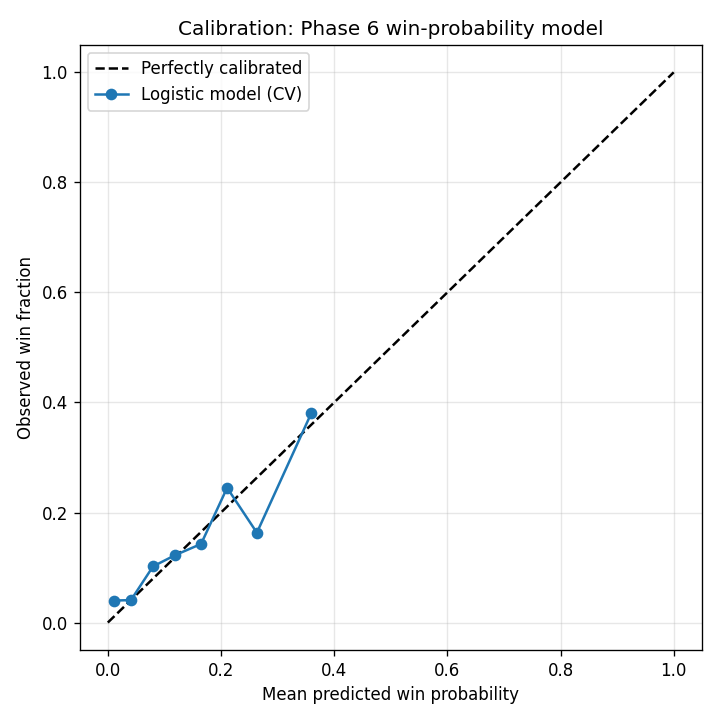
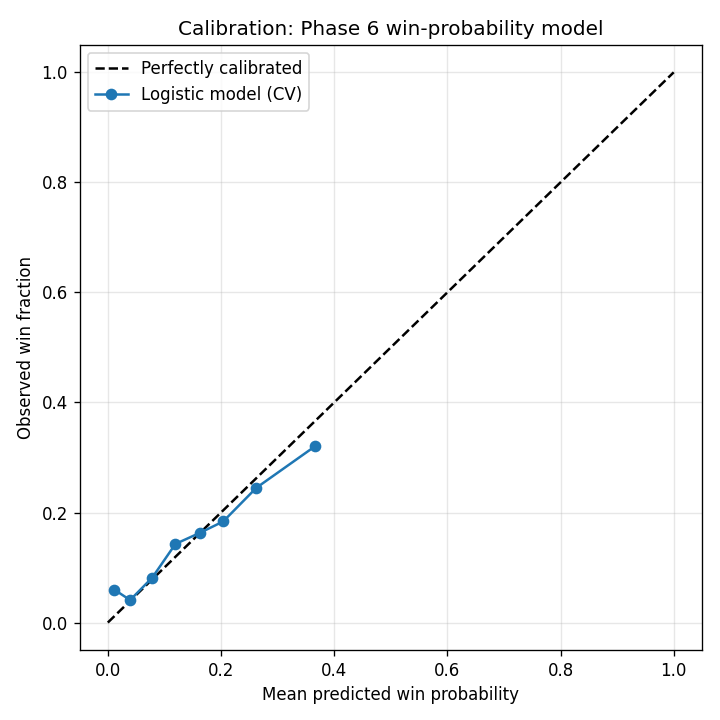
Add beaten lengths as picks column 17 and beaten_c CL feature
Decode the Brisnet superscript font (digits + margin fractions) to parse
beaten lengths from the FIN call of the most recent PP race line. Stored
raw in entries/picks; the conditional logit caps at 5 lengths since CV
ablation showed the close-loss signal lives under ~5 lengths.

Changed region(s): [[0.1528, 0.6417, 0.3972, 0.8556], [0.3972, 0.5806, 0.4583, 0.6417], [0.4278, 0.55, 0.4583, 0.5806]]

diff --git a/scripts/db_migrate.py b/scripts/db_migrate.py
@@ -68,6 +68,7 @@ CREATE TABLE IF NOT EXISTS picks (
     recent_spd_2    INTEGER,
     recent_spd_3    INTEGER,
     jt_winpct       REAL,
+    beaten_lengths  REAL,
     trainer_name    TEXT,
     trainer_exempt  INTEGER DEFAULT 0,
     filtered_reason TEXT,
@@ -110,6 +111,7 @@ CREATE TABLE IF NOT EXISTS entries (
     improving     INTEGER,
     jt_zero       INTEGER,
     jt_winpct     REAL,
+    beaten_lengths REAL,
     signal_types  TEXT,
     is_pick       INTEGER DEFAULT 0,
     UNIQUE(track, race_date, race_num, horse_name)
@@ -141,14 +143,16 @@ def ensure_prob_columns(conn):
                           ('kelly_bet', 'REAL'), ('days_off', 'INTEGER'),
                           ('last_race_date', 'TEXT'), ('best_speed', 'INTEGER'),
                           ('recent_spd_1', 'INTEGER'), ('recent_spd_2', 'INTEGER'),
-                          ('recent_spd_3', 'INTEGER'), ('jt_winpct', 'REAL')):
+                          ('recent_spd_3', 'INTEGER'), ('jt_winpct', 'REAL'),
+                          ('beaten_lengths', 'REAL')):
         if col not in existing:
             conn.execute(f"ALTER TABLE picks ADD COLUMN {col} {col_type}")
             print(f"  schema: added picks.{col}")
     existing_e = {row[1] for row in conn.execute("PRAGMA table_info(entries)")}
-    if 'jt_winpct' not in existing_e:
-        conn.execute("ALTER TABLE entries ADD COLUMN jt_winpct REAL")
-        print("  schema: added entries.jt_winpct")
+    for col in ('jt_winpct', 'beaten_lengths'):
+        if col not in existing_e:
+            conn.execute(f"ALTER TABLE entries ADD COLUMN {col} REAL")
+            print(f"  schema: added entries.{col}")
     conn.commit()
 
 
@@ -209,21 +213,24 @@ def backfill_speed(conn):
     conn.commit()
 
 
-def backfill_jt_winpct(conn):
-    """Fill picks.jt_winpct from entries for the same horse on the same card."""
-    cur = conn.execute(
-        "UPDATE picks SET jt_winpct = ("
-        " SELECT e.jt_winpct FROM entries e"
-        " WHERE e.track=picks.track AND e.race_date=picks.race_date"
-        "   AND e.race_num=picks.race_num AND e.horse_name=picks.horse_name)"
-        " WHERE jt_winpct IS NULL AND EXISTS ("
-        " SELECT 1 FROM entries e"
-        " WHERE e.track=picks.track AND e.race_date=picks.race_date"
-        "   AND e.race_num=picks.race_num AND e.horse_name=picks.horse_name"
-        "   AND e.jt_winpct IS NOT NULL)"
-    )
-    if cur.rowcount:
-        print(f"  backfill: jt_winpct from entries for {cur.rowcount} picks")
+def backfill_entry_columns(conn):
+    """Fill simple picks columns from the matching entries row (same horse,
+    same card). Add (picks_col, entries_col) pairs here as features grow."""
+    for picks_col, entries_col in (('jt_winpct', 'jt_winpct'),
+                                   ('beaten_lengths', 'beaten_lengths')):
+        cur = conn.execute(
+            f"UPDATE picks SET {picks_col} = ("
+            f" SELECT e.{entries_col} FROM entries e"
+            " WHERE e.track=picks.track AND e.race_date=picks.race_date"
+            "   AND e.race_num=picks.race_num AND e.horse_name=picks.horse_name)"
+            f" WHERE {picks_col} IS NULL AND EXISTS ("
+            " SELECT 1 FROM entries e"
+            " WHERE e.track=picks.track AND e.race_date=picks.race_date"
+            "   AND e.race_num=picks.race_num AND e.horse_name=picks.horse_name"
+            f"   AND e.{entries_col} IS NOT NULL)"
+        )
+        if cur.rowcount:
+            print(f"  backfill: {picks_col} from entries for {cur.rowcount} picks")
     conn.commit()
 
 
@@ -452,6 +459,9 @@ def import_picks(conn):
             # Column 16: J/T combo win%
             try:    jt_winpct = float(parts[15]) if len(parts) >= 16 else None
             except: jt_winpct = None
+            # Column 17: beaten lengths in most recent race
+            try:    beaten_len = float(parts[16]) if len(parts) >= 17 else None
+            except: beaten_len = None
 
             cur.execute(
                 "SELECT race_id FROM races WHERE track=? AND race_date=? AND race_num=?",
@@ -464,15 +474,17 @@ def import_picks(conn):
                 "INSERT OR IGNORE INTO picks"
                 "(track,race_date,race_num,race_id,horse_name,signal_type,bets,"
                 "ml_odds,pp_power,win_prob,ev_ratio,days_off,"
-                "best_speed,recent_spd_1,recent_spd_2,recent_spd_3,jt_winpct,trainer_name)"
-                " VALUES(?,?,?,?,?,?,?,?,?,?,?,?,?,?,?,?,?,?)",
+                "best_speed,recent_spd_1,recent_spd_2,recent_spd_3,jt_winpct,"
+                "beaten_lengths,trainer_name)"
+                " VALUES(?,?,?,?,?,?,?,?,?,?,?,?,?,?,?,?,?,?,?)",
                 (p_track, date_str, p_race, race_id, p_horse, p_signal, bets,
                  ml_odds, pp_power, win_prob, ev_ratio, days_off,
-                 best_speed, rs1, rs2, rs3, jt_winpct, trainer_name)
+                 best_speed, rs1, rs2, rs3, jt_winpct, beaten_len, trainer_name)
             )
             if cur.rowcount:
                 n_picks += 1
-            elif any(v is not None for v in (win_prob, days_off, best_speed, jt_winpct)):
+            elif any(v is not None for v in (win_prob, days_off, best_speed, jt_winpct,
+                                             beaten_len)):
                 # Pick imported before its file was annotated (or re-annotated
                 # after a model fix) — sync optional columns from the file
                 cur.execute(
@@ -482,10 +494,11 @@ def import_picks(conn):
                     " recent_spd_1=COALESCE(?,recent_spd_1),"
                     " recent_spd_2=COALESCE(?,recent_spd_2),"
                     " recent_spd_3=COALESCE(?,recent_spd_3),"
-                    " jt_winpct=COALESCE(?,jt_winpct)"
+                    " jt_winpct=COALESCE(?,jt_winpct),"
+                    " beaten_lengths=COALESCE(?,beaten_lengths)"
                     " WHERE track=? AND race_date=? AND race_num=? AND horse_name=?",
                     (win_prob, ev_ratio, days_off, best_speed, rs1, rs2, rs3, jt_winpct,
-                     p_track, date_str, p_race, p_horse)
+                     beaten_len, p_track, date_str, p_race, p_horse)
                 )
 
     conn.commit()
@@ -655,8 +668,8 @@ def main():
     print("Backfilling speed figures...")
     backfill_speed(conn)
 
-    print("Backfilling jt_winpct...")
-    backfill_jt_winpct(conn)
+    print("Backfilling columns from entries...")
+    backfill_entry_columns(conn)
 
     # Summary
     cur = conn.cursor()

diff --git a/scripts/brisnet_parser_v2.py b/scripts/brisnet_parser_v2.py
@@ -336,6 +336,57 @@ def extract_speed_figures(block_lines):
     return [races[d] for d in sorted(races, reverse=True)]
 
 
+# Brisnet PP font: superscript digits map to §¨©ª«¬\xad®¯° (verified against
+# jockey weights, e.g. OcasioJ¨©§ = 120) and margin fractions to
+# \x81=½ ‚=¼ ƒ=¾ (verified: winner-margin chain sums match the FIN call).
+_SUP_DIGITS = {'§': 0, '¨': 1, '©': 2, 'ª': 3, '«': 4,
+               '¬': 5, '\xad': 6, '®': 7, '¯': 8, '°': 9}
+_SUP_FRACTIONS = {'\x81': 0.5, '‚': 0.25, 'ƒ': 0.75,   # ½ ¼ ¾
+                  '\xb2': 0.05, '„': 0.1, '\xb3': 0.3}      # nose head neck
+_SUP_CHARS = re.escape(''.join(list(_SUP_DIGITS) + list(_SUP_FRACTIONS)))
+# The FIN call (position + superscript beaten lengths) is the token right
+# before the jockey, who renders as Name + 3 superscript weight digits
+_PP_FIN_RE = re.compile(
+    r'(\d{1,2})([' + _SUP_CHARS + r']*)\s*'
+    r"(?=[A-Z][A-Za-z'.]{2,}[" + re.escape(''.join(_SUP_DIGITS)) + r']{3})'
+)
+
+
+def _sup_to_lengths(sup):
+    digits = ''.join(str(_SUP_DIGITS[c]) for c in sup if c in _SUP_DIGITS)
+    frac = sum(_SUP_FRACTIONS[c] for c in sup if c in _SUP_FRACTIONS)
+    return (int(digits) if digits else 0) + frac
+
+
+def extract_beaten_lengths(block_lines, page_lines=None):
+    """Beaten lengths in the horse's most recent race (0.0 = won, positive
+    = lengths behind the winner), or None when unparseable / first-time
+    starter. Horse blocks come from the page's left-crop text, where PP
+    lines are truncated before the FIN call; pass page_lines so the
+    full-layout copy (same line, longer) can be located by prefix."""
+    races = {}
+    for line in block_lines:
+        d = _pp_line_date(line)
+        if d is None or races.get(d) is not None:
+            continue
+        m = _PP_FIN_RE.search(line)
+        if m is None and page_lines:
+            key = line.strip()
+            if len(key) >= 40:
+                for fl in page_lines:
+                    fls = fl.strip()
+                    if len(fls) > len(key) and fls.startswith(key):
+                        m = _PP_FIN_RE.search(fls)
+                        if m:
+                            break
+        if m is None:
+            races.setdefault(d, None)
+            continue
+        pos = int(m.group(1))
+        races[d] = 0.0 if pos == 1 else _sup_to_lengths(m.group(2))
+    return races[max(races)] if races else None
+
+
 def last_race_date_from_block(block):
     """Most recent past-race date in a horse's PP block, or None
     (first-time starters have no PP lines)."""
@@ -546,6 +597,8 @@ def parse_brisnet(text, track_code='GP', race_date=None):
             if race_date and last_race and last_race < race_date:
                 days_off = (race_date - last_race).days
 
+            beaten_len = extract_beaten_lengths(block, lines)
+
             # ── Speed figures from PP lines in block ──────────────────────────
             spd_figs   = extract_speed_figures(block)  # [(figure, surface), ...]
             recent_spd = [f for f, _ in spd_figs[:5]]
@@ -616,7 +669,7 @@ def parse_brisnet(text, track_code='GP', race_date=None):
                 'recent_spd': recent_spd, 'best_spd': best_spd,
                 'best_spd_turf': best_spd_turf, 'best_spd_aw': best_spd_aw,
                 'improving': improving, 'jt_zero': jt_zero,
-                'jt_winpct': jt_winpct,
+                'jt_winpct': jt_winpct, 'beaten_len': beaten_len,
             }
 
             if not any(h['name'] == horse for h in races[current_race]['horses']):
@@ -871,8 +924,9 @@ def write_entries_db(races, track_code, race_date):
                     "(race_id,track,race_date,race_num,post_pos,horse_name,"
                     "ml_odds,prime_power,pp_rank,trainer,jockey,sire,"
                     "days_off,claim_price,best_spd,best_spd_turf,best_spd_aw,"
-                    "recent_spd,improving,jt_zero,jt_winpct,signal_types,is_pick)"
-                    " VALUES(?,?,?,?,?,?,?,?,?,?,?,?,?,?,?,?,?,?,?,?,?,?,?)",
+                    "recent_spd,improving,jt_zero,jt_winpct,beaten_lengths,"
+                    "signal_types,is_pick)"
+                    " VALUES(?,?,?,?,?,?,?,?,?,?,?,?,?,?,?,?,?,?,?,?,?,?,?,?)",
                     (race_id, tc, date_str, rn, h['pp'],
                      h['name'].replace(' ', ''),
                      ml_to_float(h['ml']),
@@ -890,6 +944,7 @@ def write_entries_db(races, track_code, race_date):
                      int(bool(h.get('improving'))),
                      int(bool(h.get('jt_zero'))),
                      h.get('jt_winpct'),
+                     h.get('beaten_len'),
                      ','.join(s[0] for s in h['signals']) or None,
                      int(is_strong_pick(h)))
                 )
@@ -909,7 +964,7 @@ def write_picks_file(all_picks, track_code, filepath):
     out_path = Path(__file__).parent / f"picks_{tc}_{date_str}.txt"
     lines = [
         f"# Benter Model Picks - {tc} {date_str}",
-        "# Format: TRACK RACE HORSE SIGNAL BETS ML_ODDS PP_POWER TRAINER WIN_PROB EV_RATIO DAYS_OFF BEST_SPD SPD1 SPD2 SPD3 JT_WINPCT",
+        "# Format: TRACK RACE HORSE SIGNAL BETS ML_ODDS PP_POWER TRAINER WIN_PROB EV_RATIO DAYS_OFF BEST_SPD SPD1 SPD2 SPD3 JT_WINPCT BEATEN_LEN",
     ]
     for rn, h in sorted(all_picks, key=lambda x: x[0]):
         if is_trainer_hotjt(h):
@@ -926,9 +981,10 @@ def write_picks_file(all_picks, track_code, filepath):
         recent     = h.get('recent_spd') or []
         spd_cols   = ' '.join(str(recent[i]) if i < len(recent) else '?' for i in range(3))
         jt_col     = str(h['jt_winpct']) if h.get('jt_winpct') is not None else '?'
+        bl_col     = f"{h['beaten_len']:.2f}" if h.get('beaten_len') is not None else '?'
         # WIN_PROB/EV_RATIO (cols 9-10) are '?' until prob_predict.py --in-place fills them
         lines.append(f"{tc} {rn} {horse_name} {sig_type} WPS {ml_col} {pp_col} {trainer_col}"
-                     f" ? ? {do_col} {best_col} {spd_cols} {jt_col}")
+                     f" ? ? {do_col} {best_col} {spd_cols} {jt_col} {bl_col}")
 
     out_path.write_text('\n'.join(lines) + '\n', encoding='utf-8')
     return out_path

diff --git a/scripts/prob_model.py b/scripts/prob_model.py
@@ -38,7 +38,8 @@ CL_MODEL_PATH = os.path.join(SCRIPT_DIR, "benter_model_cl.pkl")
 CALIBRATION_PLOT_PATH = os.path.join(SCRIPT_DIR, "calibration_plot.png")
 CL_CALIBRATION_PLOT_PATH = os.path.join(SCRIPT_DIR, "calibration_plot_cl.png")
 
-NUMERIC_FEATURES = ["ml_odds", "pp_power", "days_off", "best_speed", "jt_winpct"]
+NUMERIC_FEATURES = ["ml_odds", "pp_power", "days_off", "best_speed", "jt_winpct",
+                    "beaten_lengths"]
 CATEGORICAL_FEATURES = ["signal_type", "track", "surface"]
 
 TRAINING_SQL = """
@@ -51,6 +52,7 @@ SELECT
     p.days_off,
     p.best_speed,
     p.jt_winpct,
+    p.beaten_lengths,
     COALESCE(rc.surface, 'Dirt')             AS surface,
     COALESCE(e.finish_pos, r.finish_pos)     AS finish_pos,
     r.odds                                   AS final_odds,
@@ -147,6 +149,7 @@ def train_picks_model():
     print(f"  days_off present: {df['days_off'].notna().sum()}/{n}")
     print(f"  best_speed present: {df['best_speed'].notna().sum()}/{n}")
     print(f"  jt_winpct present: {df['jt_winpct'].notna().sum()}/{n}")
+    print(f"  beaten_lengths present: {df['beaten_lengths'].notna().sum()}/{n}")
     print("  surface: constant ('Dirt' for every race in DB) - no signal")
 
     pipe = build_pipeline()
@@ -232,7 +235,7 @@ def train_picks_model():
 
 CL_FEATURES = ["log_ml", "prime_power_c", "pp_missing",
                "days_off_c", "best_spd_c", "spd_missing",
-               "jt_winpct_c", "jt_missing", "improving",
+               "jt_winpct_c", "jt_missing", "beaten_c", "improving",
                "jt_zero", "sig_trainer", "sig_sire", "sig_horse", "sig_hotjt"]
 CL_L2 = 1.0
 
@@ -248,6 +251,7 @@ SELECT
     e.days_off,
     e.best_spd,
     e.jt_winpct,
+    e.beaten_lengths,
     e.improving,
     e.jt_zero,
     e.signal_types,
@@ -299,11 +303,17 @@ def build_cl_features(df, stds=None):
     center("days_off", "days_off_c")
     center("best_spd", "best_spd_c", "spd_missing")
     center("jt_winpct", "jt_winpct_c", "jt_missing")
+    # beaten lengths capped at 5: CV ablation showed the close-loss signal
+    # lives under ~5 lengths (the public prices big losses correctly, and
+    # raw values reach 87 for eased horses, swamping the linear term).
+    # No separate missing flag: coincides with spd_missing.
+    df["beaten_capped"] = pd.to_numeric(df["beaten_lengths"], errors="coerce").clip(upper=5)
+    center("beaten_capped", "beaten_c")
 
     if stds is None:
         stds = {c: float(df[c].std()) or 1.0
                 for c in ("log_ml", "prime_power_c", "days_off_c",
-                          "best_spd_c", "jt_winpct_c")}
+                          "best_spd_c", "jt_winpct_c", "beaten_c")}
     for c, sd in stds.items():
         df[c] = df[c] / sd
     return stds
@@ -394,6 +404,7 @@ def train_conditional_logit():
     print(f"prime_power present: {(df['pp_missing'] == 0).sum()}/{n_starters}")
     print(f"best_spd present:    {(df['spd_missing'] == 0).sum()}/{n_starters}")
     print(f"jt_winpct present:   {(df['jt_missing'] == 0).sum()}/{n_starters}")
+    print(f"beaten_len present:  {df['beaten_lengths'].notna().sum()}/{n_starters}")
 
     recs, y_flat, p_flat = cl_cross_validate(races)
     ll_model = -np.log(np.maximum(recs["p_win_model"], 1e-12)).mean()

diff --git a/scripts/prob_predict.py b/scripts/prob_predict.py
@@ -4,7 +4,8 @@ Usage:
     py prob_predict.py picks_FP_06092026.txt [-o output.txt]
 
 Reads a picks file (TRACK RACE HORSE SIGNAL BETS ML_ODDS PP_POWER
-TRAINER [WIN_PROB EV_RATIO DAYS_OFF BEST_SPD SPD1 SPD2 SPD3 JT_WINPCT]) and
+TRAINER [WIN_PROB EV_RATIO DAYS_OFF BEST_SPD SPD1 SPD2 SPD3 JT_WINPCT
+BEATEN_LEN]) and
 appends WIN_PROB, EV_RATIO, an EV flag, and RANK, writing
 <input>_prob.txt unless -o is given.
 
@@ -51,9 +52,11 @@ def parse_picks_file(path):
             row["days_off"] = parts[10] if len(parts) >= 11 else "?"
             row["best_speed"] = parts[11] if len(parts) >= 12 else "?"
             row["jt_winpct"] = parts[15] if len(parts) >= 16 else "?"
+            row["beaten_lengths"] = parts[16] if len(parts) >= 17 else "?"
             rows.append(row)
     df = pd.DataFrame(rows)
-    for col in ("ml_odds", "pp_power", "days_off", "best_speed", "jt_winpct"):
+    for col in ("ml_odds", "pp_power", "days_off", "best_speed", "jt_winpct",
+                "beaten_lengths"):
         df[col] = pd.to_numeric(df[col].replace("?", np.nan), errors="coerce")
     return df, raw_lines
 
@@ -103,7 +106,8 @@ def main():
     else:
         out_path = args.output or os.path.splitext(args.picks_file)[0] + "_prob.txt"
     fmt_base = ("# Format: TRACK RACE HORSE SIGNAL BETS ML_ODDS PP_POWER TRAINER"
-                " WIN_PROB EV_RATIO DAYS_OFF BEST_SPD SPD1 SPD2 SPD3 JT_WINPCT")
+                " WIN_PROB EV_RATIO DAYS_OFF BEST_SPD SPD1 SPD2 SPD3 JT_WINPCT"
+                " BEATEN_LEN")
     with open(out_path, "w", encoding="utf-8") as f:
         for line, tail, idx in raw_lines:
             if idx is None:

diff --git a/scripts/cl_predict.py b/scripts/cl_predict.py
@@ -57,6 +57,7 @@ def rows_from_pp(pp_file, track):
                 "days_off": h.get("days_off") or None,
                 "best_spd": h.get("best_spd"),
                 "jt_winpct": h.get("jt_winpct"),
+                "beaten_lengths": h.get("beaten_len"),
             })
     return pd.DataFrame(rows)
 
@@ -68,7 +69,7 @@ def rows_from_db(track, race_date):
     df = pd.read_sql_query(
         """SELECT race_num AS race_id, race_num, post_pos AS pp, horse_name,
                   ml_odds, prime_power, days_off, best_spd, jt_winpct,
-                  signal_types, improving, jt_zero
+                  beaten_lengths, signal_types, improving, jt_zero
            FROM entries WHERE track = ? AND race_date = ?
            ORDER BY race_num, post_pos""",
         con, params=(track.upper(), race_date),

diff --git a/scripts/cl_evaluate.py b/scripts/cl_evaluate.py
@@ -57,6 +57,7 @@ SELECT
     e.days_off,
     e.best_spd,
     e.jt_winpct,
+    e.beaten_lengths,
     e.signal_types,
     e.improving,
     e.jt_zero,
